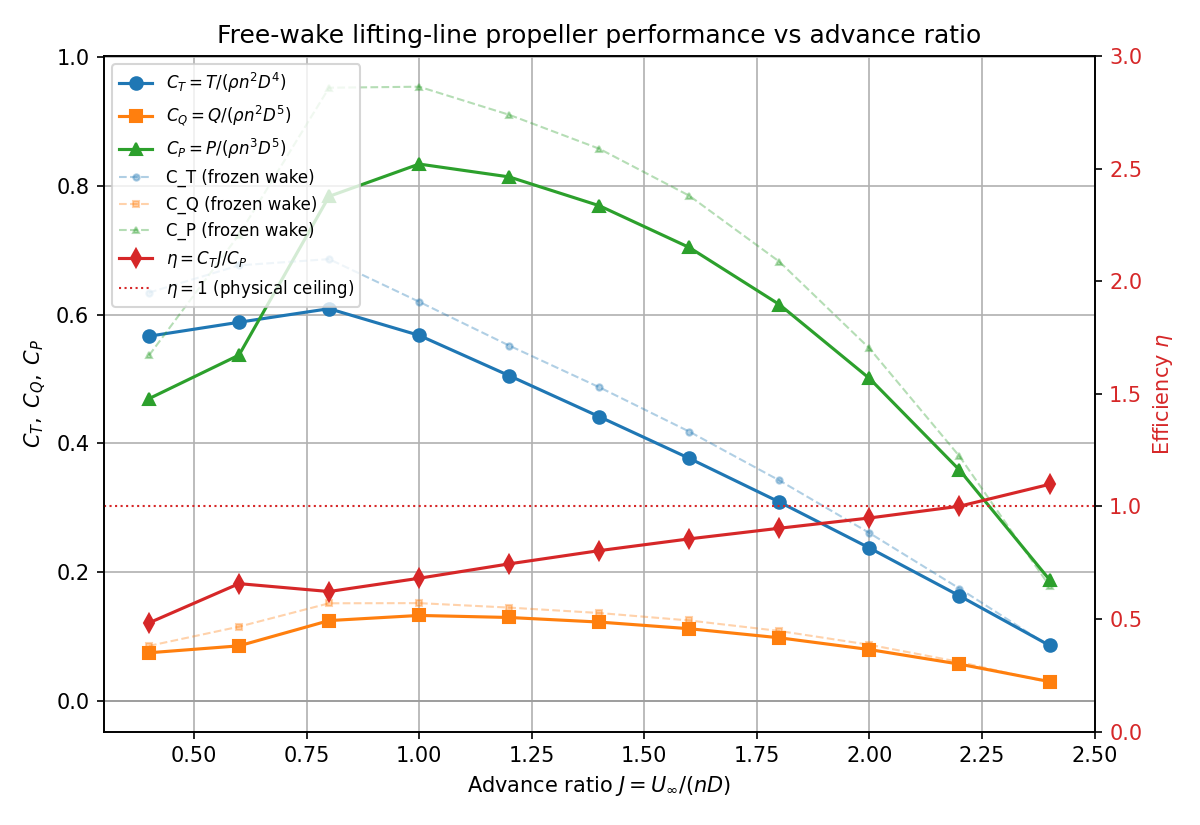
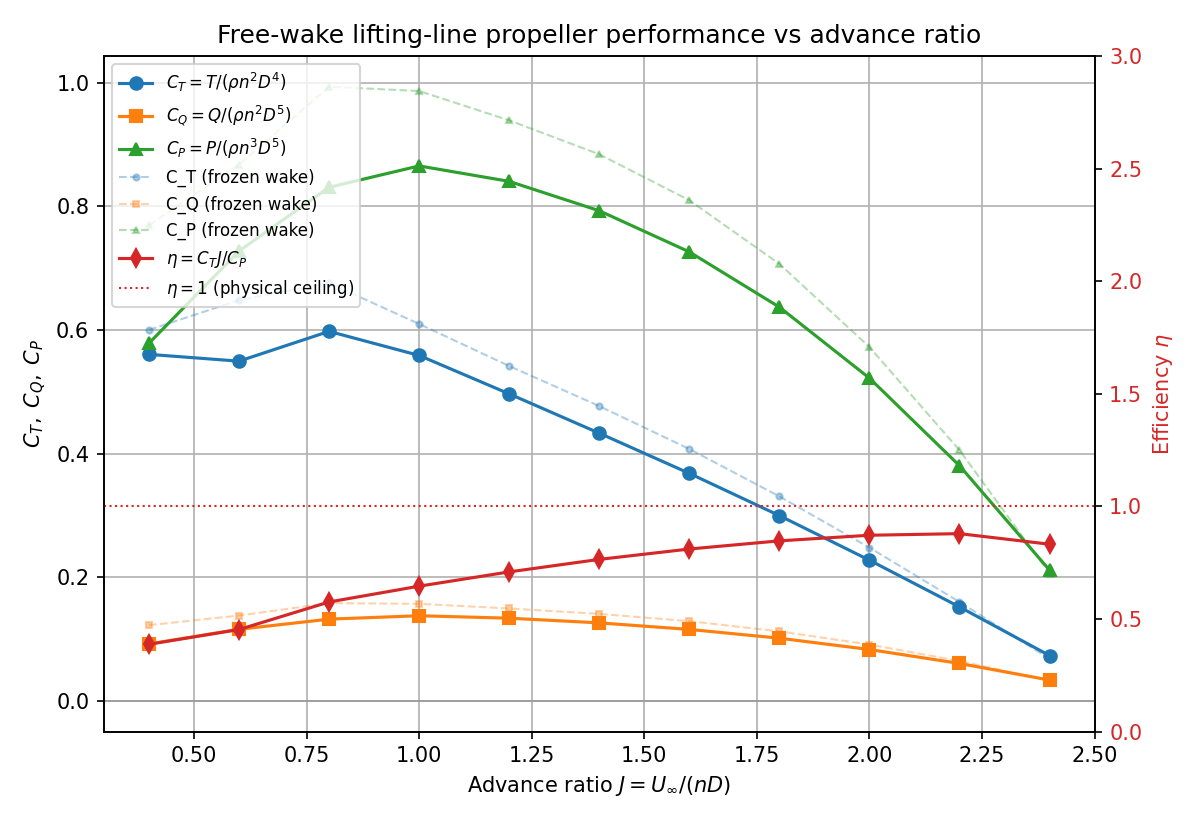
push

diff --git a/assignment_2/J_sweep_freewake.py b/assignment_2/J_sweep_freewake.py
@@ -20,6 +20,8 @@ Run from the repository root so the relative airfoil path resolves:
 
 import os
 import time
+from concurrent.futures import ProcessPoolExecutor, as_completed
+
 
 import numpy as np
 import matplotlib.pyplot as plt
@@ -70,6 +72,36 @@ def run_lifting_line_freewake(J, radius=0.7, n_blades=6, U_inf=60,
     return C_T, C_Q, C_P
 
 
+
+def _run_freewake_case(index, J, n_cases):
+    """Worker function: run one J case and package timing/output for the parent process."""
+    t0 = time.time()
+    error = None
+    try:
+        C_T, C_Q, C_P = run_lifting_line_freewake(J)
+    except Exception as exc:
+        C_T = C_Q = C_P = np.nan
+        error = str(exc)
+
+    if np.isfinite(C_P) and C_P != 0:
+        eta_j = C_T * J / C_P
+    else:
+        eta_j = np.nan
+
+    return {
+        "index": index,
+        "n_cases": n_cases,
+        "J": J,
+        "CT": C_T,
+        "CQ": C_Q,
+        "CP": C_P,
+        "eta": eta_j,
+        "elapsed": time.time() - t0,
+        "error": error,
+    }
+
+
+
 CACHE_FILE = 'assignment_2/J_sweep_freewake_results.npz'
 FROZEN_CACHE = 'assignment_2/J_sweep_results.npz'   # optional overlay (frozen wake)
 
@@ -84,25 +116,39 @@ def main():
         J_values, CT, CQ, CP = data['J'], data['CT'], data['CQ'], data['CP']
         print(f"Loaded cached results from {CACHE_FILE}")
     else:
-        CT_list, CQ_list, CP_list = [], [], []
+        n_cases = len(J_values)
+        n_workers = n_cases
+        available_cores = os.cpu_count() or 1
+        if available_cores < n_workers:
+            print(f"Warning: {n_cases} cases requested but only {available_cores} CPU cores detected; "
+                  f"the OS will time-slice workers.")
+        print(f"Running {n_cases} free-wake cases in parallel ({n_workers} worker processes).")
+
+        CT = np.full(n_cases, np.nan)
+        CQ = np.full(n_cases, np.nan)
+        CP = np.full(n_cases, np.nan)
         t_start = time.time()
-        for k, J in enumerate(J_values):
-            t0 = time.time()
-            try:
-                C_T, C_Q, C_P = run_lifting_line_freewake(J)
-            except Exception as exc:
-                print(f"J = {J:5.2f} | FAILED ({exc}); storing NaN")
-                C_T = C_Q = C_P = np.nan
-            CT_list.append(C_T)
-            CQ_list.append(C_Q)
-            CP_list.append(C_P)
-            eta_j = C_T * J / C_P if (C_P not in (0, np.nan) and C_P != 0) else np.nan
-            print(f"[{k+1:2d}/{len(J_values)}] J = {J:5.2f} | C_T = {C_T:8.4f} | "
-                  f"C_Q = {C_Q:8.4f} | C_P = {C_P:8.4f} | eta = {eta_j:7.4f} | "
-                  f"{time.time()-t0:5.1f}s")
-        CT = np.array(CT_list)
-        CQ = np.array(CQ_list)
-        CP = np.array(CP_list)
+        with ProcessPoolExecutor(max_workers=n_workers) as executor:
+            futures = [
+                executor.submit(_run_freewake_case, k, float(J), n_cases)
+                for k, J in enumerate(J_values)
+            ]
+
+            for future in as_completed(futures):
+                result = future.result()
+                k = result["index"]
+                CT[k] = result["CT"]
+                CQ[k] = result["CQ"]
+                CP[k] = result["CP"]
+
+                if result["error"] is not None:
+                    print(f"J = {result['J']:5.2f} | FAILED ({result['error']}); storing NaN")
+
+                print(f"[{k+1:2d}/{result['n_cases']}] J = {result['J']:5.2f} | "
+                      f"C_T = {result['CT']:8.4f} | C_Q = {result['CQ']:8.4f} | "
+                      f"C_P = {result['CP']:8.4f} | eta = {result['eta']:7.4f} | "
+                      f"{result['elapsed']:5.1f}s")
+
         np.savez(CACHE_FILE, J=J_values, CT=CT, CQ=CQ, CP=CP)
         print(f"Saved results cache to {CACHE_FILE}  (total {time.time()-t_start:.1f}s)")
 